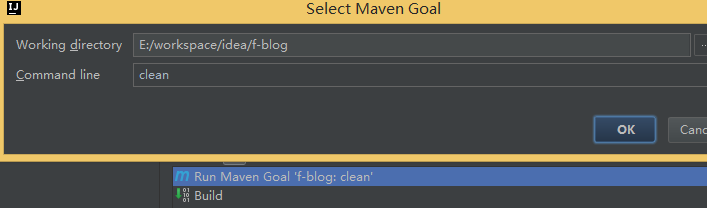
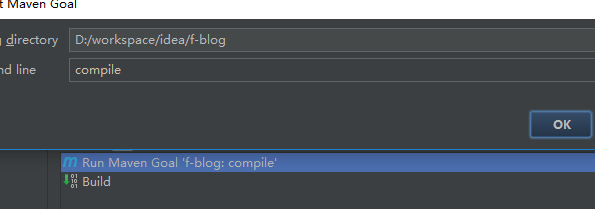
:smile:

diff --git a/README.md b/README.md
@@ -3,5 +3,5 @@
 生产需修改admin_auth.yaml中密钥
 
 开发环境在idea右侧Tool Buttons中Maven Projects->profiles，勾选profile
-idea编辑运行build前增加run maven goal，clean
+idea编辑运行build前增加run maven goal，compile
 配置在web/run.png中查看
